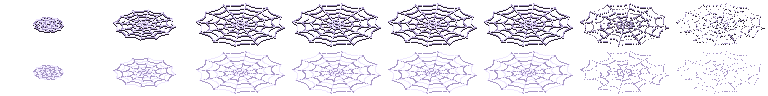
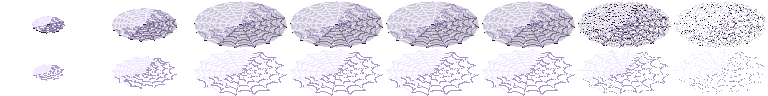
Паутина марионетки — связная сеть (16 радиальных и 7 круговых нитей с провисом, плёнка, блики, роса), держится 4,5–4,7 с; оазисы — песчаный берег вокруг пруда, пальмы вернулись (запад 43, восток 27), MAP_VERSION 38

diff --git a/shared/map.ts b/shared/map.ts
@@ -150,7 +150,7 @@ export const zoneStyle = (z: Zone): Zone => ZONES[z]?.style ?? z;
 const zoneByName = (n: string) => Zone[n as keyof typeof Zone] as Zone | undefined;
 
 /** Версия раскладки мира: при смене позиции из старых сохранений сбрасываются к точке появления. */
-export const MAP_VERSION = 37; // 37 — скалы-уступы 3×1 (ledge_*) и варианты формы растений, костей и руды (shared/natureVariants.ts); 36 — выжженная земля вокруг сгоревшего (клиент, client/src/game/scorch.ts): пепелище → обугленная → опалённая трава; 35 — 35 — брусчатка по стилю: столицы и форты Сольгарда — CobbleSol, Умбрата — CobbleUmb (вместо плитки Floor), Эмберхолл — CobbleEmber; 34 — 34 — правила декора (data/decor-rules.json): без кустов на льду, пальм на пепле, деревьев на песке и в воде, костей в городах и огня на траве без сгоревшего; 33 — арена босса кольца r75n запад (Гурдан Громобой, латный великан, задача 139); 32 — арена босса кольца r69s восток (Гаэль Безнитный, костяная марионетка, задача 139); 31 — арена босса кольца r69s запад (Мидар Златоперстый, проклятый золотом, задача 139), слот ring65 убран; 30 — арена босса кольца r65n запад (Горвак Стальной Рог, минотавр-латник, задача 139); 29 — арена босса кольца r65n восток (Кальдрам Ледяной Владыка, задача 139); 28 — арена босса кольца r59s восток (Орвен Звонарь, звонарь утопленников, задача 139); 27 — арена босса кольца r55n запад (Иоаким Отступник, капеллан-знаменосец, задача 139); 26 — арена босса кольца r59s запад (Корвин Вороний Лекарь, задача 139); 25 — арена босса кольца r55n восток (Гнашера, жрица котла, задача 139), прежние арены Энта и Болотной Ведьмы убраны (layout.bosses удалён); 24 — арена босса кольца r49s запад (Гразг Подкопщик, задача 139); 23 — тренировочные манекены убраны (плацы фортов, лагеря поселений, Поля); 22 — арена босса кольца r45n (Азхар Многоликий, задача 139); 21 — «Пепельные чертоги» стали отдельным инстансом (shared/dungeon.ts): на месте данжа обычные Поля и лестница-вход dg_entrance 6×5; 20 — зал босса данжа: вытертая дорожка, помост-ритуальный круг, жаровни и колонны с цепями, саркофаги вдоль стен, кости по углам; лужа лавы севернее не режется стилем; 19 — данж по стилям: собор павших королей → переход → пепельный склеп (новые полы, стены, реквизит, арки и ворота; shared/dungeonDecor.ts); 18 — арена босса кольца r49s (Кассар, задача 139); 17 — павшие кони Полей в объёме (по 5 вариантов фракций, нейтральные, скелеты: shared/decor.ts, tools/gen/bf-horses.ts); 16 — воронки с рельефом, гарь с текстурой, сгоревшая катапульта дымит, варианты стойки щитов и стола с картой (форты — по фракции); 15 — декор Полей в объёме с вариантами (воткнутое оружие, щиты, воронки, обломки, повозки, шатры, катапульты: shared/decor.ts, tools/gen/bf-props.ts); 14 — арена босса кольца r75n (Ведрас, задача 139): ровная земля без декора; 13 — курган короля Морта под статуей в Мортхейме (umb_barrow 4×4, на земле); 12 — столицы 41×31 с круглой площадью и статуей короля в центре (задача 145); 11 — 11 — статуи героев столиц 2×2 на площади у камня перемещения (задача 141); 10 — 10 — частокол поселений сплошной (угловые столбы, штандарты у ворот снаружи), хижины вместо шатров-домов (задача 141); 9 — знамёна реже (акцентами): штандарты только снаружи у ворот городов и фортов и у ворот поселений; 8 — штандарты своих земель вместо sun/crown_banner; 7 — арены боссов стартовых земель (задача 136): ровная земля без декора; 6 — декор Полей и мест (шаг 10 задачи 132)
+export const MAP_VERSION = 38; // 38 — песчаный берег оазиса шире (пальмы встают); 37 — 37 — скалы-уступы 3×1 (ledge_*) и варианты формы растений, костей и руды (shared/natureVariants.ts); 36 — выжженная земля вокруг сгоревшего (клиент, client/src/game/scorch.ts): пепелище → обугленная → опалённая трава; 35 — 35 — брусчатка по стилю: столицы и форты Сольгарда — CobbleSol, Умбрата — CobbleUmb (вместо плитки Floor), Эмберхолл — CobbleEmber; 34 — 34 — правила декора (data/decor-rules.json): без кустов на льду, пальм на пепле, деревьев на песке и в воде, костей в городах и огня на траве без сгоревшего; 33 — арена босса кольца r75n запад (Гурдан Громобой, латный великан, задача 139); 32 — арена босса кольца r69s восток (Гаэль Безнитный, костяная марионетка, задача 139); 31 — арена босса кольца r69s запад (Мидар Златоперстый, проклятый золотом, задача 139), слот ring65 убран; 30 — арена босса кольца r65n запад (Горвак Стальной Рог, минотавр-латник, задача 139); 29 — арена босса кольца r65n восток (Кальдрам Ледяной Владыка, задача 139); 28 — арена босса кольца r59s восток (Орвен Звонарь, звонарь утопленников, задача 139); 27 — арена босса кольца r55n запад (Иоаким Отступник, капеллан-знаменосец, задача 139); 26 — арена босса кольца r59s запад (Корвин Вороний Лекарь, задача 139); 25 — арена босса кольца r55n восток (Гнашера, жрица котла, задача 139), прежние арены Энта и Болотной Ведьмы убраны (layout.bosses удалён); 24 — арена босса кольца r49s запад (Гразг Подкопщик, задача 139); 23 — тренировочные манекены убраны (плацы фортов, лагеря поселений, Поля); 22 — арена босса кольца r45n (Азхар Многоликий, задача 139); 21 — «Пепельные чертоги» стали отдельным инстансом (shared/dungeon.ts): на месте данжа обычные Поля и лестница-вход dg_entrance 6×5; 20 — зал босса данжа: вытертая дорожка, помост-ритуальный круг, жаровни и колонны с цепями, саркофаги вдоль стен, кости по углам; лужа лавы севернее не режется стилем; 19 — данж по стилям: собор павших королей → переход → пепельный склеп (новые полы, стены, реквизит, арки и ворота; shared/dungeonDecor.ts); 18 — арена босса кольца r49s (Кассар, задача 139); 17 — павшие кони Полей в объёме (по 5 вариантов фракций, нейтральные, скелеты: shared/decor.ts, tools/gen/bf-horses.ts); 16 — воронки с рельефом, гарь с текстурой, сгоревшая катапульта дымит, варианты стойки щитов и стола с картой (форты — по фракции); 15 — декор Полей в объёме с вариантами (воткнутое оружие, щиты, воронки, обломки, повозки, шатры, катапульты: shared/decor.ts, tools/gen/bf-props.ts); 14 — арена босса кольца r75n (Ведрас, задача 139): ровная земля без декора; 13 — курган короля Морта под статуей в Мортхейме (umb_barrow 4×4, на земле); 12 — столицы 41×31 с круглой площадью и статуей короля в центре (задача 145); 11 — 11 — статуи героев столиц 2×2 на площади у камня перемещения (задача 141); 10 — 10 — частокол поселений сплошной (угловые столбы, штандарты у ворот снаружи), хижины вместо шатров-домов (задача 141); 9 — знамёна реже (акцентами): штандарты только снаружи у ворот городов и фортов и у ворот поселений; 8 — штандарты своих земель вместо sun/crown_banner; 7 — арены боссов стартовых земель (задача 136): ровная земля без декора; 6 — декор Полей и мест (шаг 10 задачи 132)
 
 export const CELL_BLOCK = 1;
 export const CELL_WALL = 2;
@@ -661,7 +661,8 @@ function terrainAt(x: number, y: number, seed: number, z = zoneAt(x, y, seed)): 
     return T.Grass;
   }
   // пруд оазиса — по одному на сторону (запад: Пустыня Миражей, восток: Пепельная пустошь): вода и песок у берега; дорога и площадки главнее
-  if (pd < 4.2 && road >= roadW && siteDist(x, y) >= 1.1) return pd < 2.4 + (n - 0.5) * 2 ? T.Water : T.Sand;
+  // песчаный берег шире (до ~8 клеток): пальмы по правилам декора растут только на песке
+  if (pd < 8.2 + (n - 0.5) * 2 && road >= roadW && siteDist(x, y) >= 1.1) return pd < 2.4 + (n - 0.5) * 2 ? T.Water : T.Sand;
   switch (st) {
     case Zone.Frontier:
     case Zone.Meadow: {

diff --git a/tools/gen/bosses139/umb_bone_marionette.ts b/tools/gen/bosses139/umb_bone_marionette.ts
@@ -723,15 +723,42 @@ function cocoonFx(i: number): Cv {
   o.outline(OUTL);
   return o;
 }
-/** сеть на земле 96×48 (вид сверху в перспективе): растёт 0–2, держит 3–4 (мерцает), тает 5 */
+/** цвет полупрозрачной плёнки сети (при выгрузке в игру получает альфу MEMB_A) */
+const MEMB: C = [41, 31, 61], MEMB_A = 58;
+/** сеть на земле 96×48 (вид сверху в перспективе): плотная паутина — 16 радиальных и 7 круговых нитей с провисом, плёнка между ними, блики сверху-слева; растёт 0–2, держит 3–4 (мерцает), тает 5 */
 function webFx(i: number): Cv {
-  const o = new Cv(96, 48), cx = 48, cy = 24, k = [0.35, 0.7, 1, 1, 1, 1][i], R = 44 * k;
-  const col = (q: number) => (i === 5 ? (q % 3 ? THR0 : STRB) : i === 4 && q % 4 === 0 ? THR1 : q % 2 ? THR0 : THR1);
-  const SP = 12;
-  const spoke = (t: number) => t * 2 * PI / SP + 0.13;
-  for (let s = 0; s < SP; s++) { const t = spoke(s); for (let q = 2; q <= R; q += 0.6) { const x = cx + COS(t) * q, y = cy + SIN(t) * q * 0.48; if (i === 5 && hash(s, q) < 0.4) continue; o.set(x, y, col(Math.round(q))); } }
-  for (let ring = 1; ring <= 5; ring++) { const rr = (ring / 5) * R; for (let s = 0; s < SP; s++) { const t0 = spoke(s), t1 = spoke(s + 1); for (let u = 0; u <= 1; u += 0.05) { const sag = SIN(u * PI) * rr * 0.08; const x = cx + COS(t0) * rr * (1 - u) + COS(t1) * rr * u, y = cy + SIN(t0) * rr * 0.48 * (1 - u) + SIN(t1) * rr * 0.48 * u; const dx = x - cx, dy = (y - cy) / 0.48, dl = Math.hypot(dx, dy) || 1; if (i === 5 && hash(ring * 13 + s, u * 20) < 0.45) continue; o.set(x - (dx / dl) * sag, y - (dy / dl) * sag * 0.48, col(ring + s)); } } }
-  // (тень под нитями)
+  const o = new Cv(96, 48), cx = 48, cy = 24, k = [0.35, 0.7, 1, 1, 1, 1][i], R = 46 * k, Y = 0.5;
+  const SP = 16, RINGS = 7, fade = i === 5;
+  const spoke = (t: number) => t * 2 * PI / SP + 0.1;
+  // плёнка между нитями (полупрозрачная заливка, в игре — альфа)
+  for (let y = 0; y < 48; y++) for (let x = 0; x < 96; x++) {
+    const dx = x - cx, dy = (y - cy) / Y, d = Math.hypot(dx, dy);
+    if (d > R || d < 2) continue;
+    if (fade && hash(x, y) < 0.45) continue;
+    o.set(x, y, MEMB);
+  }
+  // свет сверху-слева: нить, обращённая к свету, — блик, обращённая от света — тень
+  const lit = (nx: number, ny: number) => -nx * 0.7 - ny * 0.7;
+  const tone = (nx: number, ny: number, q: number): C => { const l = lit(nx, ny); return l > 0.45 ? THR1 : l > -0.2 ? (q % 3 === 0 ? THR1 : THR0) : (q % 2 ? THR0 : STRB); };
+  for (let s = 0; s < SP; s++) {
+    const t = spoke(s), nx = COS(t), ny = SIN(t);
+    for (let q = 2; q <= R; q += 0.5) { if (fade && hash(s, q * 3) < 0.4) continue; o.set(cx + nx * q, cy + ny * q * Y, tone(nx, ny, Math.round(q))); }
+  }
+  for (let ring = 1; ring <= RINGS; ring++) {
+    const rr = Math.pow(ring / RINGS, 0.85) * R;
+    for (let s = 0; s < SP; s++) {
+      const t0 = spoke(s), t1 = spoke(s + 1);
+      for (let u = 0; u <= 1; u += 0.04) {
+        const sag = SIN(u * PI) * rr * 0.1;
+        const x = cx + COS(t0) * rr * (1 - u) + COS(t1) * rr * u, y = cy + (SIN(t0) * (1 - u) + SIN(t1) * u) * rr * Y;
+        const dx = x - cx, dy = (y - cy) / Y, dl = Math.hypot(dx, dy) || 1;
+        if (fade && hash(ring * 13 + s, u * 20) < 0.5) continue;
+        o.set(x - (dx / dl) * sag, y - (dy / dl) * sag * Y, tone(dx / dl, dy / dl, ring + s));
+      }
+    }
+  }
+  // капли росы на пересечениях (2×1, яркие) и тёмная кромка под нитями
+  for (let ring = 2; ring <= RINGS; ring += 2) for (let s = 0; s < SP; s += 2) { if (fade) break; const t = spoke(s), rr = Math.pow(ring / RINGS, 0.85) * R; const x = Math.round(cx + COS(t) * rr), y = Math.round(cy + SIN(t) * rr * Y); o.set(x, y, [255, 255, 255]); o.set(x + 1, y, THR1); }
   for (let y = 0; y < 48; y++) for (let x = 0; x < 96; x++) if (o.has(x, y) && !o.has(x, y + 1) && GLOWSET.has(o.get(x, y).join())) o.set(x, y + 1, STRD);
   return o;
 }
@@ -781,6 +808,13 @@ export function writeSketch(root: string, outDir: string): string {
   const f = path.join(outDir, "r69s-e-sketch.png"); savePng(s, f); return f;
 }
 
+/** сеть на земле для игры: лист marion-fx-web.png (рисунок + свечение, плёнка полупрозрачная) */
+export function writeWebFx(outDir: string) {
+  { const F = GAME_FX.web, web = new Cv(F.w * F.n, F.h * 2), MAP = [0, 1, 2, 3, 4, 3, 5, 5];
+    for (let j = 0; j < F.n; j++) { const f = webFx(MAP[j]);
+      for (let y = 0; y < F.h; y++) for (let x = 0; x < F.w; x++) { if (!f.has(x, y) || (j === 7 && hash(x, y + 7) < 0.5)) continue; const q = f.get(x, y); web.set(j * F.w + x, y, q); if (q.join() === MEMB.join()) web.d[((y) * web.w + j * F.w + x) * 4 + 3] = MEMB_A; if (GLOWSET.has(q.join())) web.set(j * F.w + x, F.h + y, q); } }
+    savePng(web, path.join(outDir, "marion-fx-web.png")); }
+}
 export function writeMarionetteArt(root: string, outDir: string, only?: MarAnim[], quick = false): string[] {
   fs.mkdirSync(outDir, { recursive: true });
   const N = FRAME, FH = FRAME_H, sheet = new Cv(N * MAR_COLS, FH * 3), glow = new Cv(N * MAR_COLS, FH * 3);
@@ -806,10 +840,8 @@ export function writeMarionetteArt(root: string, outDir: string, only?: MarAnim[
   for (let i = 0; i < 6; i++) { fx.blit(cocoonFx(i), i * 32, 0); fx.blit(webFx(i), 6 * 32 + 8 + i * 96, 0); }
   savePng(fx, path.join(outDir, "marion-fx.png"));
   // в игру: сеть (рисунок + свечение) и лист кокона-моба
-  { const F = GAME_FX.web, web = new Cv(F.w * F.n, F.h * 2), MAP = [0, 1, 2, 3, 4, 3, 5, 5];
-    for (let j = 0; j < F.n; j++) { const f = webFx(MAP[j]);
-      for (let y = 0; y < F.h; y++) for (let x = 0; x < F.w; x++) { if (!f.has(x, y) || (j === 7 && hash(x, y + 7) < 0.5)) continue; const q = f.get(x, y); web.set(j * F.w + x, y, q); if (GLOWSET.has(q.join())) web.set(j * F.w + x, F.h + y, q); } }
-    savePng(web, path.join(outDir, "marion-fx-web.png"));
+  writeWebFx(outDir);
+  {
     const U = COCOON_UNIT, unit = new Cv(U.frame * U.cols, U.frameH * 3);
     const cols: [number, number, number][] = [[2, 0, 0], [2, 1, 0], [2, 0, 0], [2, -1, 0], [3, 0, 0], [4, 1, 0], [3, 0, 0], [4, -1, 0], [4, 0, 0], [5, 0, 0], [5, 0, 0.4], [5, 0, 0.8]];
     for (let row = 0; row < 3; row++) cols.forEach(([fi, dx, drop], i) => { const f = cocoonFx(fi);
@@ -860,6 +892,7 @@ const isMain = !!process.argv[1] && path.resolve(process.argv[1]).replace(/\\/g,
 if (isMain) {
   const root = path.resolve(path.dirname(process.argv[1]), "..", "..", "..");
   const out = path.join(root, "tools", "out", "bosses139"), t = Date.now();
+  if (process.argv.includes("--webonly")) { writeWebFx(out); console.log("web ok"); process.exit(0); }
   if (process.argv.includes("--sketch")) console.log("  эскиз:", writeSketch(root, out));
   else {
     const onlyArg = process.argv.find((a) => a.startsWith("--only="));

diff --git a/tools/gen/bosses139/to-game.ts b/tools/gen/bosses139/to-game.ts
@@ -276,7 +276,7 @@ BOSSES.push({
     // кокон: клубок в руках и бросок; сам кокон — моб на герое
     cocoon: { waves: [{ pre: ["cocoonWind", "cocoonHold"], strike: "cocoonCast" }], fx: [] },
     // падение-сеть: вздёрнут нитями, падает; кольцо r…r2 застилает сеть на 4 с
-    web_drop: { waves: [{ pre: ["netWind", "netHold"], strike: "netStrike" }], fx: [{ fx: "web", waves: [0], seq: ["webIn", "webHold", "webOut"], pin: 0, timing: "strike", place: "area", spacing: 76, holds: { webHold: 3700 } }] },
+    web_drop: { waves: [{ pre: ["netWind", "netHold"], strike: "netStrike" }], fx: [{ fx: "web", waves: [0], seq: ["webIn", "webHold", "webOut"], pin: 0, timing: "strike", place: "area", spacing: 76, holds: { webHold: 4500 } }] },
   },
   units: [{ src: "marion-cocoon-unit.png", id: `${mar.ID}_cage`, frame: mar.COCOON_UNIT.frame, frameH: mar.COCOON_UNIT.frameH }],
 });
